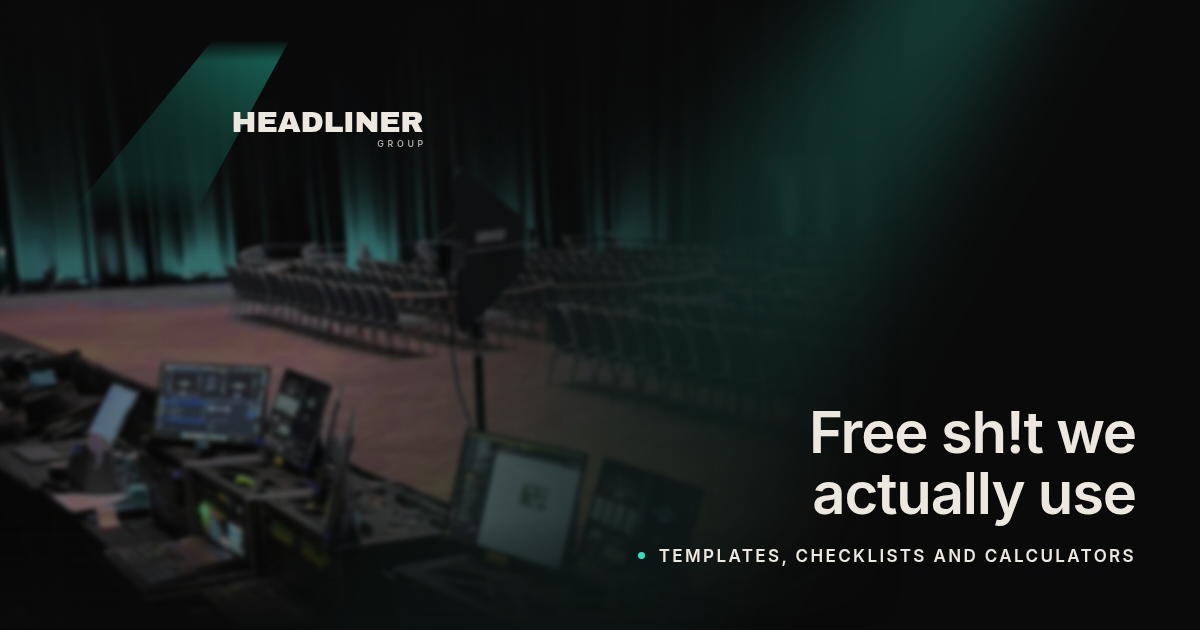
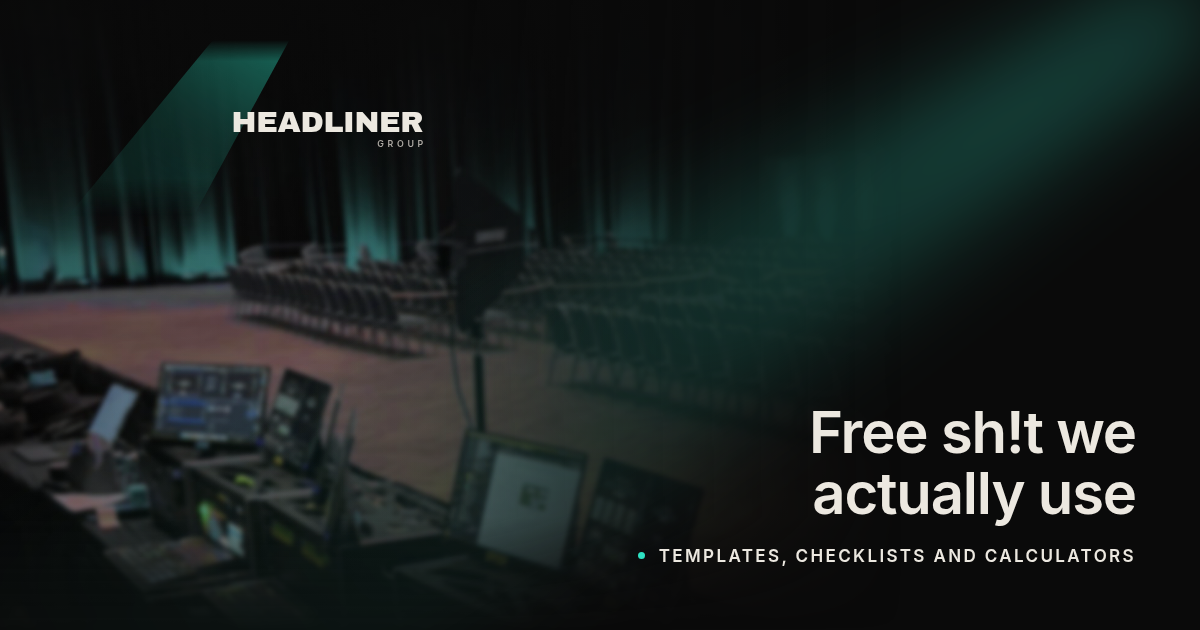
Rake the card beam from the corner at a shallower angle
Ryan's call. The lamp is the element's top centre, so putting that on the
top right corner is what makes the throw actually start there rather than
arriving from somewhere off frame. 58 degrees off vertical instead of 34,
so it rakes across the card rather than dropping down the middle, which
was the wrong read on a landscape crop.

The throw now crosses the copy block, which costs half a point. Headline
7.70:1, down from 8.20. Record and lockup unchanged.

Claude-Session: https://claude.ai/code/session_01DjfMPENav1QLkD66DkX8kr

Changed region(s): [[0.7708, 0.0, 1.0, 0.3619], [0.6783, 0.0, 0.8325, 0.181]]

diff --git a/tools-og/card.html b/tools-og/card.html
@@ -48,8 +48,11 @@
        linear-gradient(to bottom,rgba(10,10,10,.80) 0,rgba(10,10,10,.42) 22%,rgba(10,10,10,.16) 46%,rgba(10,10,10,.40) 100%),
        linear-gradient(to right,rgba(10,10,10,.24),rgba(10,10,10,.06) 34%,rgba(10,10,10,.52) 78%,rgba(10,10,10,.62) 100%)}
   /* the site's own hero beam, same construction: blur on the element, clip on ::before */
-  .g__beam{position:absolute;top:-260px;right:-130px;width:420px;height:1400px;z-index:1;
-        transform:rotate(34deg);transform-origin:top center;filter:blur(46px);
+  /* the lamp is the element's top centre, so putting that on the corner is what makes
+     the throw start there. 58 degrees off vertical rakes it across the card instead of
+     dropping it down the middle, which is the wrong read on a landscape crop. */
+  .g__beam{position:absolute;top:0;right:-210px;width:420px;height:1500px;z-index:1;
+        transform:rotate(58deg);transform-origin:top center;filter:blur(46px);
         mix-blend-mode:screen;pointer-events:none}
   .g__beam::before{content:"";position:absolute;inset:0;
         clip-path:polygon(43% 0,57% 0,100% 100%,0 100%);

diff --git a/README.md b/README.md
@@ -238,7 +238,7 @@ Every page carries a canonical, the Open Graph set and `twitter:card`, with the 
 
 The five cards in `assets/img/og-*.png` are 1200 by 630 and they are **generated, not drawn**. `tools-og/card.html` links the real stylesheet and uses the real `.hl-stage` markup, so the lockup on the card is the header lockup rather than a redrawing of it, beam and taper included. Re-run `tools-og/gen.js` whenever a page headline changes.
 
-All five share one anatomy. A photograph holds the left and dissolves into the ground on two axes, with the headline and record bottom right. Only the brand changes. The group's four put the header lockup top left with the beam bleeding off the edge exactly as it does in the bar, run the venue shot to 80 percent of the card, and rake the aqua beam down the right. His keeps the signature top right.
+All five share one anatomy. A photograph holds the left and dissolves into the ground on two axes, with the headline and record bottom right. Only the brand changes. The group's four put the header lockup top left with the beam bleeding off the edge exactly as it does in the bar, run the venue shot to 80 percent of the card, and rake the aqua beam across from the top right corner. His keeps the signature top right.
 
 The venue shot is far lighter and wider than his portrait, so it carries its own numbers: an earlier dissolve, a heavier right hand scrim, and a pool of shade in the bottom right corner where the copy sits over a lit floor and a front of house monitor. Without that pool the headline measures 4.71:1, with the bright pixel landing under the first word.
 

diff --git a/CONTENT-DECISIONS.md b/CONTENT-DECISIONS.md
@@ -353,7 +353,7 @@ taper and GROUP alignment included. Ryan's call.
 two axes, with the headline and the record bottom right. What changes between them is the
 brand, which is the point. The group's cards use the venue shot already on the home page,
 the header lockup **top left with the beam bleeding off the edge exactly as it does in the
-bar**, and the aqua beam raking down the right. His uses his portrait, his signature top
+bar**, and the aqua beam raking across from the top right corner. His uses his portrait, his signature top
 right, the Caveat kicker and a pink bloom.
 
 The venue shot runs to 80 percent of the card, so the copy block sits over a lit floor and a
